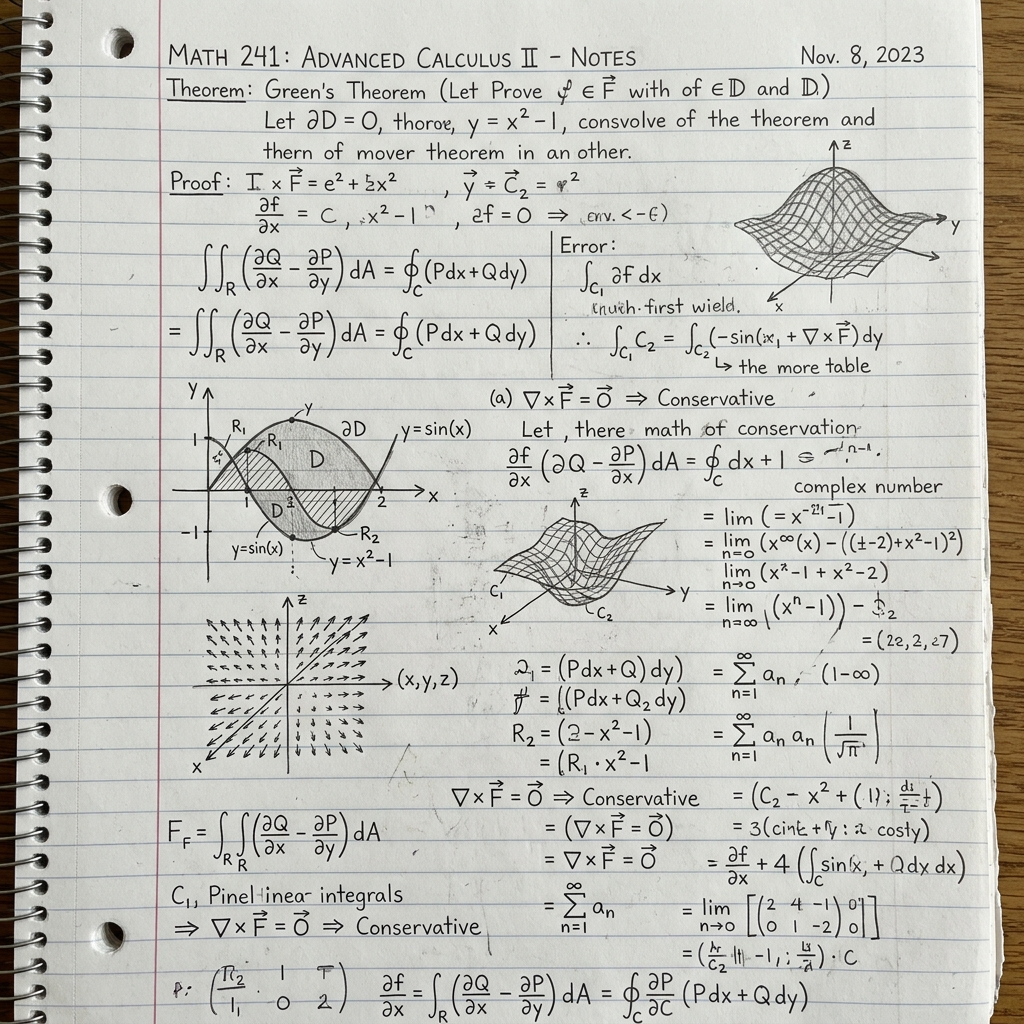
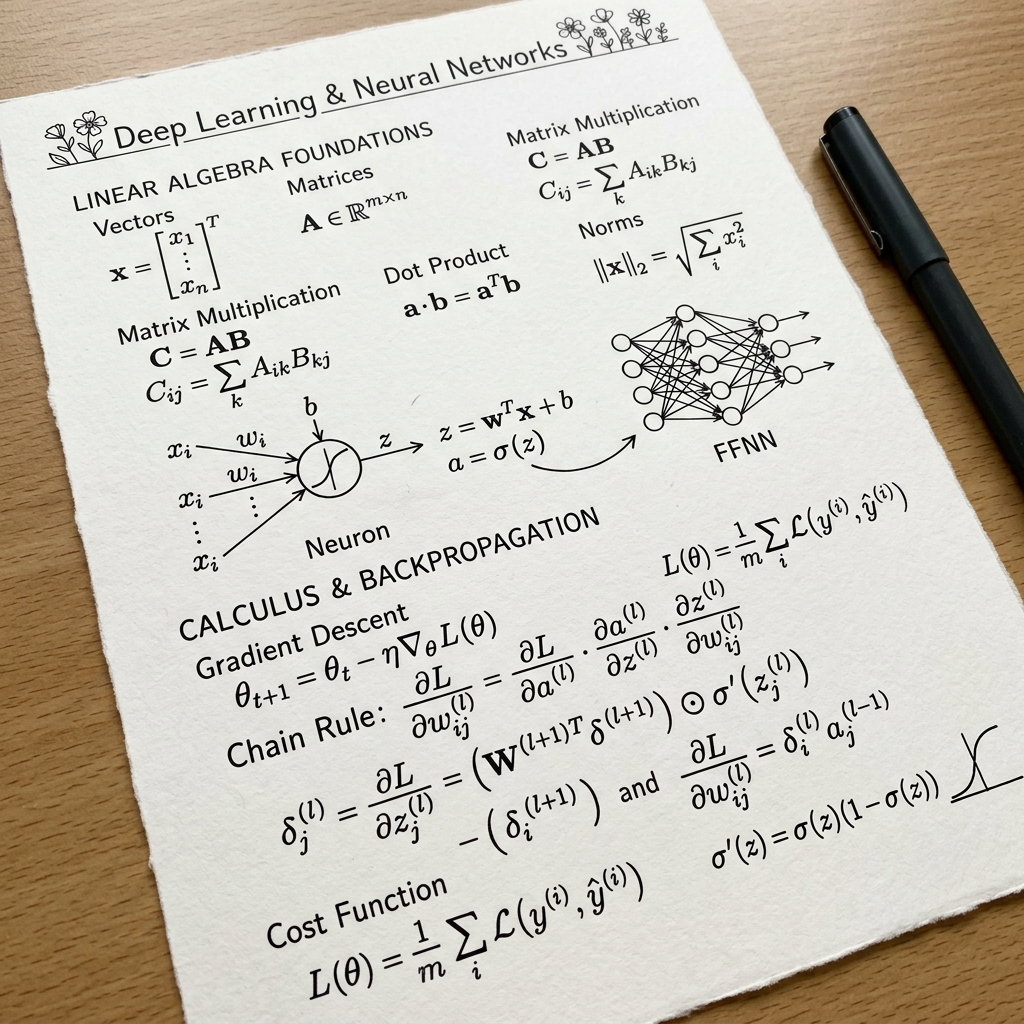
meta

diff --git a/app/notes/page.tsx b/app/notes/page.tsx
@@ -3,7 +3,32 @@ import path from 'path';
 import matter from 'gray-matter';
 import Link from 'next/link';
 import { Cormorant_Garamond, Crimson_Pro } from 'next/font/google';
+import { Metadata } from 'next';
 import styles from './notes-index.module.css';
+
+export const metadata: Metadata = {
+  title: 'divyanshu saini | notes',
+  description: 'Notes on machine learning, neural networks, and their underlying mathematics.',
+  openGraph: {
+    title: 'divyanshu saini | notes',
+    description: 'Notes on machine learning, neural networks, and their underlying mathematics.',
+    url: 'https://divyanshusaini.me/notes',
+    images: [
+      {
+        url: 'https://divyanshusaini.me/images/notes.png',
+        width: 1200,
+        height: 630,
+        alt: 'divyanshu saini | notes',
+      },
+    ],
+  },
+  twitter: {
+    card: 'summary_large_image',
+    title: 'divyanshu saini | notes',
+    description: 'Notes on machine learning, neural networks, and their underlying mathematics.',
+    images: ['https://divyanshusaini.me/images/notes.png'],
+  },
+};
 
 const cormorant = Cormorant_Garamond({ 
   subsets: ['latin'], 
@@ -38,10 +63,10 @@ async function getBlogs() {
         slug: file.replace('.md', ''),
         title: data.title || 'Untitled',
         description: data.description || '',
-        order: data.order !== undefined ? data.order : 999, // default to end if no order
+        order: data.order !== undefined ? data.order : 999, 
       };
     })
-    .filter(blog => blog.order !== 999) // only include those with explicit order (to hide hope.md if wanted, or just sort them)
+    .filter(blog => blog.order !== 999) 
     .sort((a, b) => a.order - b.order);
 
   return blogs;
@@ -95,7 +120,6 @@ export default async function NotesIndex() {
         <div className={styles.sectionDivider}>NOTES</div>
 
         <div className={styles.notesImageContainer}>
-          {/* Using a regular img tag to avoid Next.js Image component strictness about local files if they aren't fully configured */}
           <img 
             src="/images/notes.png" 
             alt="Handwritten math notes" 

diff --git a/app/oneko-loader.tsx b/app/oneko-loader.tsx
@@ -1,17 +1,10 @@
 'use client'
 
 import { useEffect } from 'react'
-
-/**
- * OnekoLoader - Loads the oneko cat animation script
- * This component is responsible for loading the oneko.js script after hydration
- * to prevent SSR/hydration mismatches
- */
 export function OnekoLoader() {
   useEffect(() => {
-    // Only load on client side and check if script is already loaded
     if (document.querySelector('script[src="/oneko.js"]')) {
-      return // Script already loaded
+      return 
     }
 
     try {

diff --git a/components/ArticleLayout.tsx b/components/ArticleLayout.tsx
@@ -4,10 +4,8 @@ import rehypeKatex from 'rehype-katex';
 import rehypeHighlight from 'rehype-highlight';
 import { Crimson_Pro, Cormorant_Garamond, JetBrains_Mono } from 'next/font/google';
 import styles from './article.module.css';
-
-// Import CSS for math and syntax highlighting
 import 'katex/dist/katex.min.css';
-import 'highlight.js/styles/atom-one-dark.css'; // You can change this to prism-tomorrow equivalent if desired
+import 'highlight.js/styles/atom-one-dark.css'; 
 
 const crimsonPro = Crimson_Pro({ 
   subsets: ['latin'], 
@@ -92,11 +90,6 @@ export default function ArticleLayout({
                   return <code className={`${className || ''} ${jetbrainsMono.className}`} {...props}>{children}</code>;
                 },
                 p: ({node, children, ...props}) => {
-                  // To fix drop caps font family, we can just render normal p tag
-                  // and the CSS handles the ::first-letter styling, but we might need 
-                  // to globally target it if we want the specific font. In CSS module we can't easily 
-                  // inject font families for pseudo-elements using CSS variables without global access
-                  // However, adding a class or just letting the CSS module handle it with standard serif fallback works
                   return <p {...props}>{children}</p>;
                 }
               }}

diff --git a/app/notes/[slug]/page.tsx b/app/notes/[slug]/page.tsx
@@ -64,9 +64,6 @@ export async function generateMetadata({ params }: { params: { slug: string } })
 }
 
 export default async function NotePage({ params }: { params: { slug: string } }) {
-  // Await params as required by Next.js 15+ 
-  // Depending on Next version, `params` might be a Promise.
-  // We'll await it just in case Next.js 15 is used.
   const resolvedParams = await params;
   const { slug } = resolvedParams;
 
@@ -81,14 +78,10 @@ export default async function NotePage({ params }: { params: { slug: string } })
   }
 
   const { data, content } = matter(fileContent);
-
-  // Extract metadata directly from the gray-matter data or fallback to defaults
-  // For hope.md which had custom frontmatter like "Title: Live Content"
   const title = data.title || data.Title || 'Article';
   const author = data.author || data.Author || 'divyanshu saini'; 
   const authorLink = data.authorLink || data.AuthorLink || 'https://x.com/dvyanshux';
 
-  // Use a placeholder image or an image from metadata
   const image = data.image || data.Image || '/images/hope.png';
 
   return (

diff --git a/app/api/spotify/route.ts b/app/api/spotify/route.ts
@@ -1,7 +1,5 @@
 import { NextResponse } from 'next/server';
 import { getNowPlaying } from '@/lib/spotify';
-
-// Revalidate every 10 seconds to avoid hitting Spotify rate limits too hard
 export const revalidate = 10;
 
 export async function GET() {
@@ -13,8 +11,6 @@ export async function GET() {
     }
 
     const track = response.data;
-    
-    // For local files or missing data, fail gracefully
     if (!track || !track.name) {
        return NextResponse.json({ isPlaying: false });
     }

diff --git a/fix_math.js b/fix_math.js
@@ -1,8 +1,5 @@
 const fs = require('fs');
 let c = fs.readFileSync('content/hope.md', 'utf8');
-
-// The file currently has single $ for block math on their own lines.
-// We want them to be $$
 let lines = c.split('\n');
 let newLines = [];
 for (let i = 0; i < lines.length; i++) {

diff --git a/app/layout.tsx b/app/layout.tsx
@@ -17,8 +17,6 @@ export const viewport: Viewport = {
     { media: '(prefers-color-scheme: dark)', color: '#000000' },
   ],
 }
-
-// Build domain dynamically based on environment
 const getDomain = () => {
   const domain = process.env.NEXT_PUBLIC_DOMAIN
   return domain || 'https://divyanshu-portfolio.pages.github.io'

diff --git a/components/theme-toggle.tsx b/components/theme-toggle.tsx
@@ -7,8 +7,6 @@ import { useTheme } from "next-themes"
 export function ThemeToggle() {
   const { theme, setTheme } = useTheme()
   const [mounted, setMounted] = React.useState(false)
-
-  // Avoid hydration mismatch by waiting until mounted
   React.useEffect(() => {
     setMounted(true)
   }, [])

diff --git a/next-env.d.ts b/next-env.d.ts
@@ -2,5 +2,3 @@
 /// <reference types="next/image-types/global" />
 import "./.next/dev/types/routes.d.ts";
 
-// NOTE: This file should not be edited
-// see https://nextjs.org/docs/app/api-reference/config/typescript for more information.